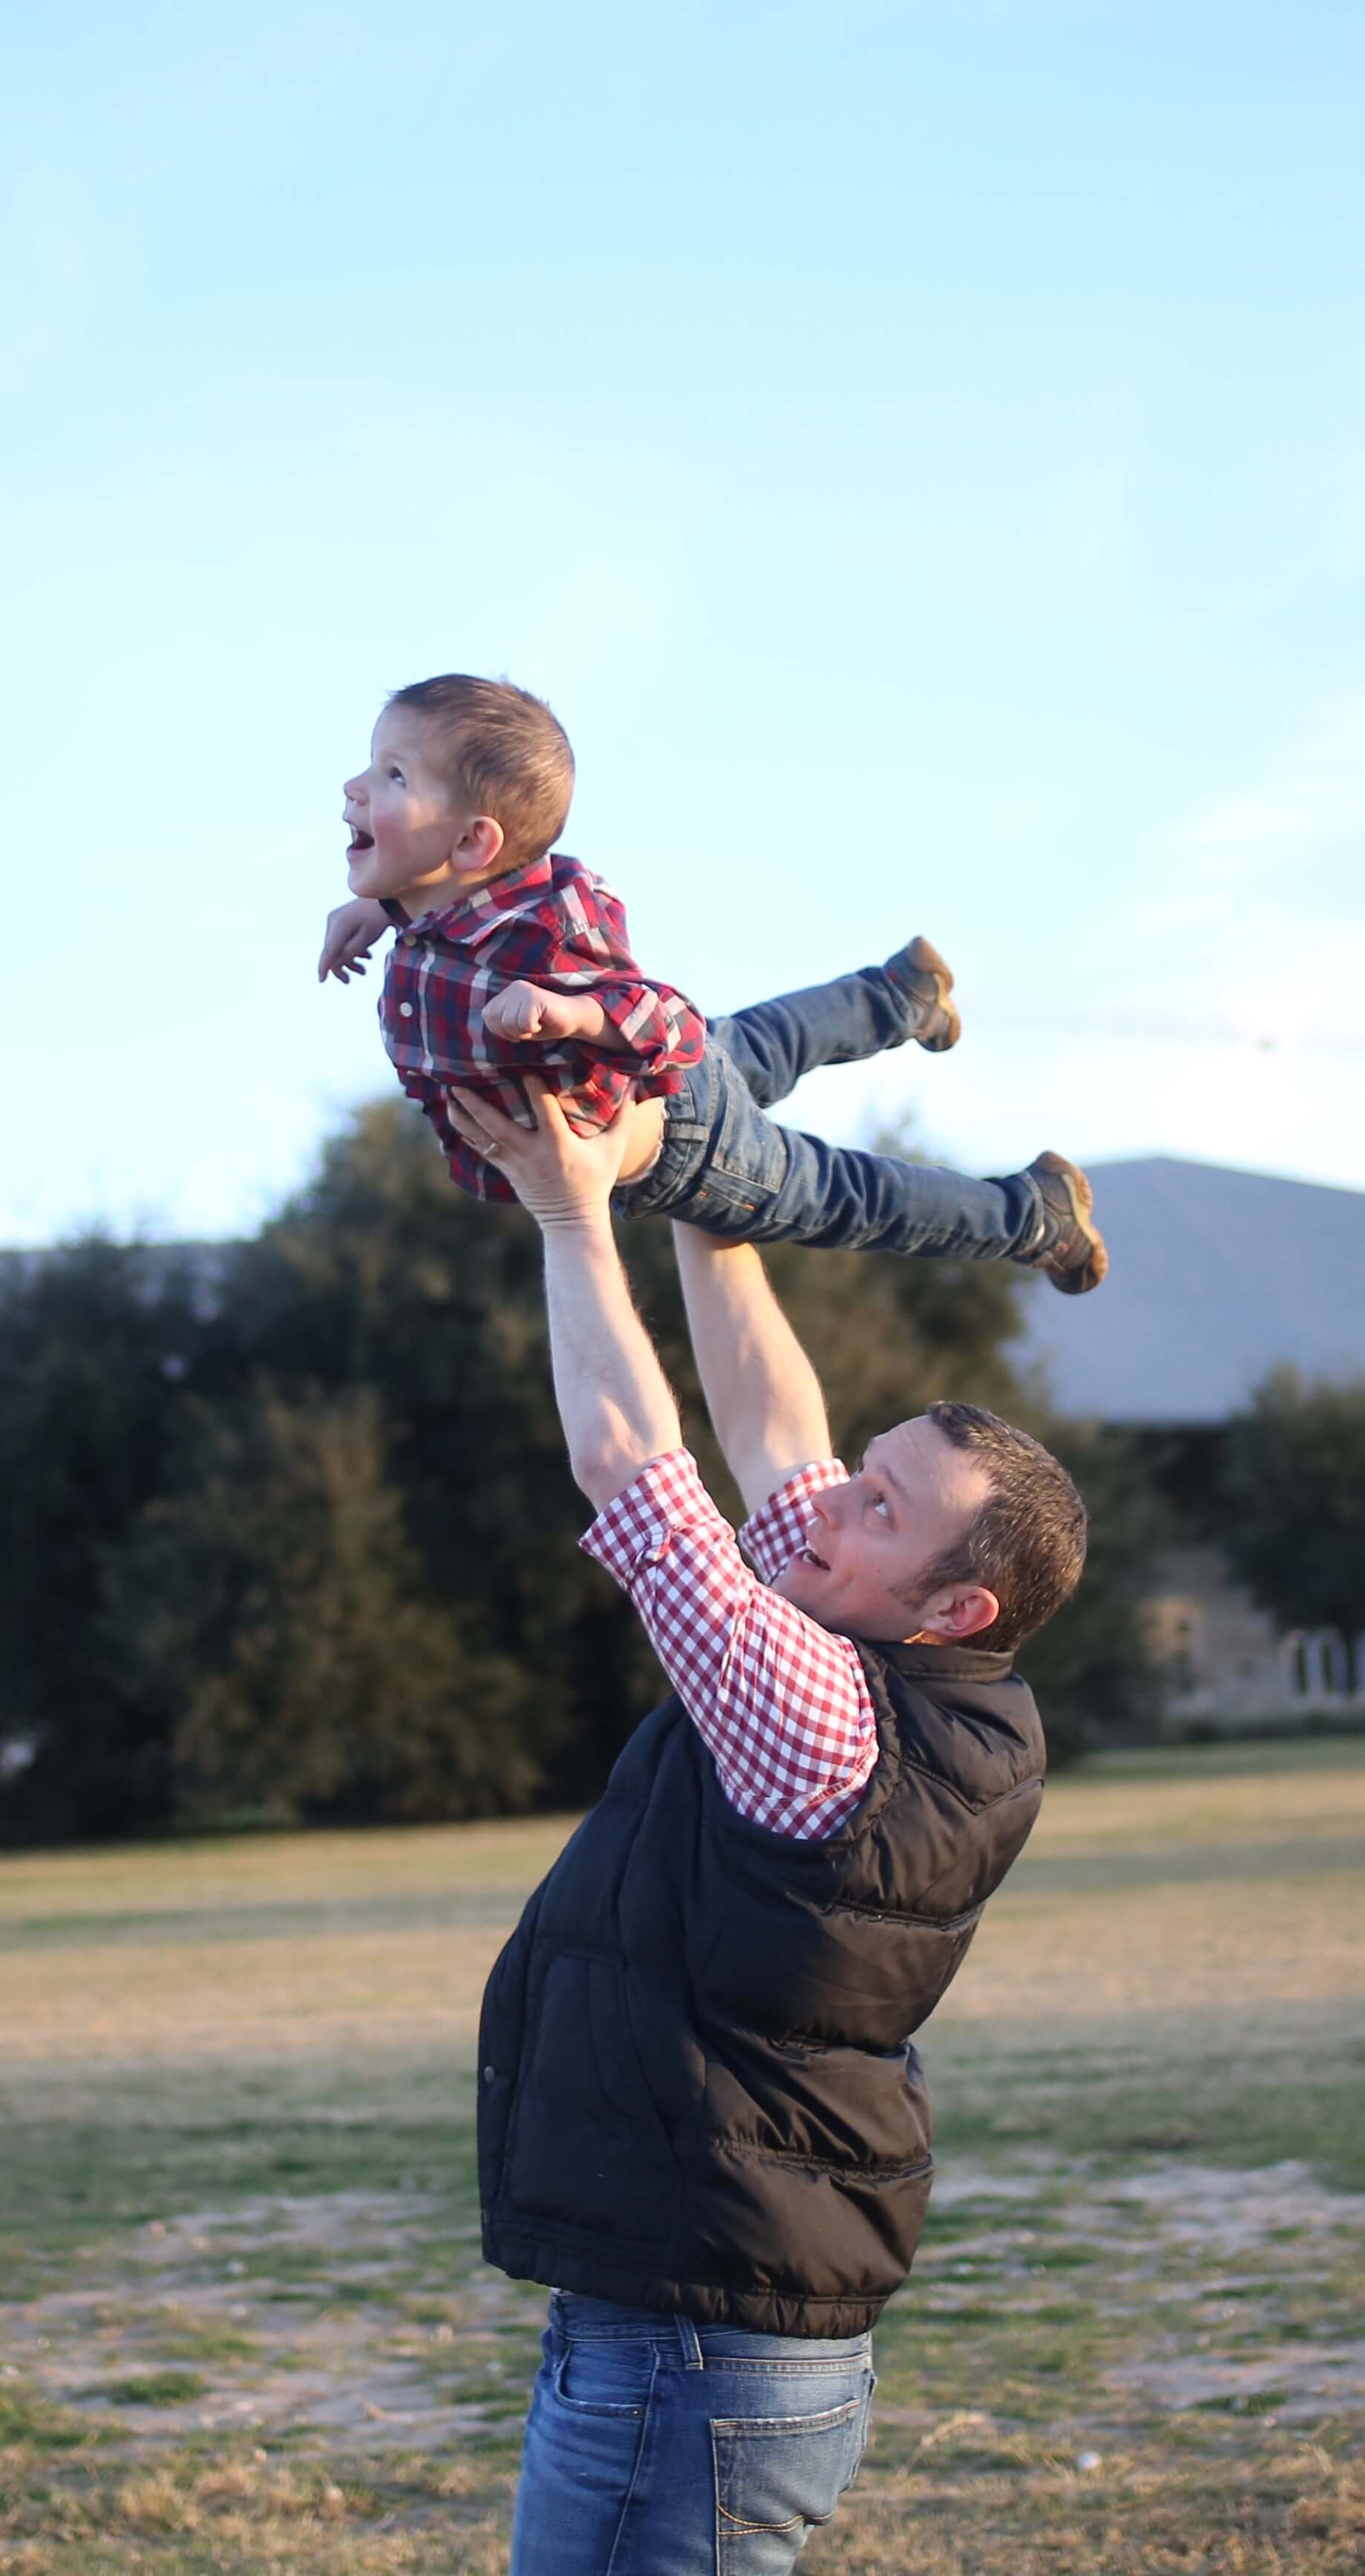
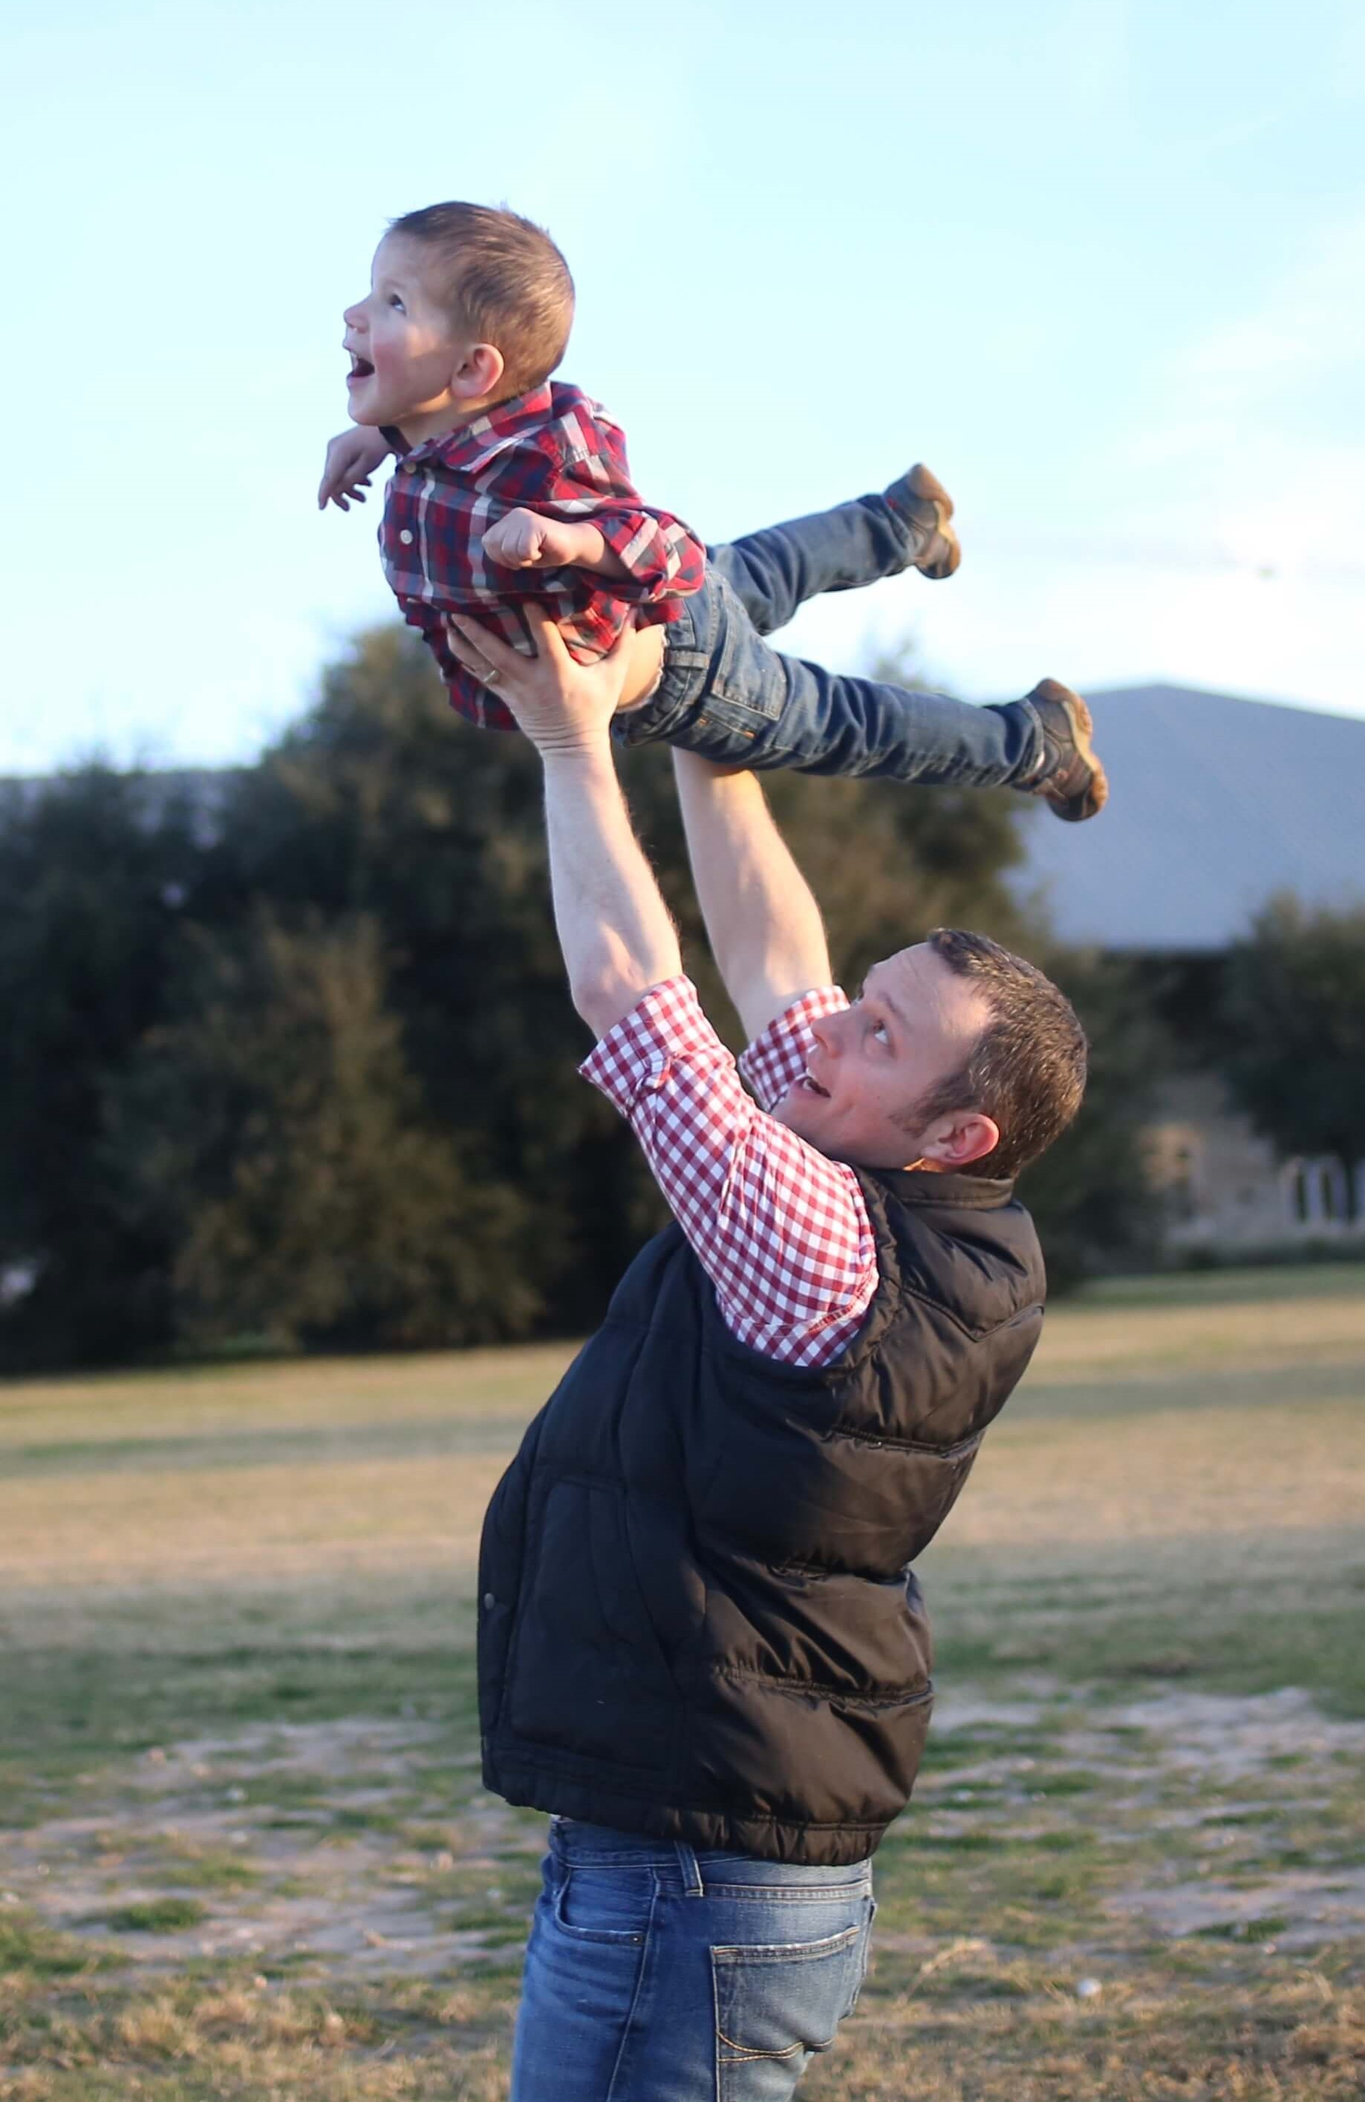
added a11y and fixed nav button

diff --git a/main.css b/main.css
@@ -65,34 +65,21 @@ header ul li a .name span{
 }
 
 /* NAV BUTTONS */
-.prev {
-	font-size: 3rem;
-
-	position: absolute;
-	left: 2%;
-	top: 70%;
-	color: white;
-	z-index: 100;
-}
-.prev >i {
-	cursor: pointer;
-	opacity: 0.4;
-
-	transition: all 0.5s;
-}
 .next {
 	font-size: 3rem;
+    /* position: -webkit-sticky; */
+    position: fixed;
+    /* align-self: flex-start; */
 
-	position: absolute;
-	left: 92%;
-	top: 70%;
-	color: white;
-	z-index: 100;
+	left: 50%;
+	top: 85%;
+	color: black;
+    z-index: 100;
+    
 }
 .next >i {
 	cursor: pointer;
 	opacity: 0.4;
-
 	transition: all 0.5s;
 }
 
@@ -125,7 +112,7 @@ header ul li a .name span{
 /* SLIDE0 "HOME"*/
 .slide0 {
     background: rgb(253, 42, 27);
-    height: 80vh;
+    height: 90vh;
     /* display: none; */
 }
 .about{
@@ -296,7 +283,7 @@ footer .links{
 
 
 
-@media only screen and (max-width:667px){
+@media only screen and (max-width:668px){
     .slide3 img, .slide1 img{
         display: none;
     }
@@ -472,20 +459,23 @@ footer .links{
     /* SLIDE1 */
     .slide1{
         height: 90%;
+        font-size: 5rem;
     }
     .info{
         display: flex;
         flex-direction: row;
-        align-items: center;
     }
     .slide1 h2{
-        width:80%;
+        width:40%;
         margin: auto;
         text-align: left;
         font-weight: bold;
     }
-    .slide1 li{
-        width: 80%;
+    .bio{
+        flex:1;
+    }
+    .bio li{
+        width: 40%;
         margin: auto;
         text-align: left;
         color: white;
@@ -494,11 +484,11 @@ footer .links{
         font-size: 1.5rem;
     }
     .familypic{
-        width:40%;
-        margin:2rem auto;
+        width: 40%;
+        flex:1;
     }
-    .slide1 img{
-        width:50%;
+    .familypic img{
+        height: 50%;
     }
 
 
@@ -526,8 +516,14 @@ footer .links{
     .slide3{
         height: 90%;
     }
+    .info{
+        display: flex;
+        align-items: center;
+        flex-direction: column;
+    }
     .contact{
         display: flex;
+
     } 
     .contactBtns{
         width: 40%;

diff --git a/index.html b/index.html
@@ -11,7 +11,7 @@
     <title>Brandon's WebDev Portfolio</title>
 </head>
 <body>
-    <header>
+    <header role="banner">
         <ul>
             <li class="current menu0"><a href="#"><div class="icon"><i class="fas fa-home"></i><i class="fas fa-home"></i></div><div class="name"><span data-text="HOME">HOME</span></div></a></li>
             <li class="menu1"><a href="#"><div class="icon"><i class="fas fa-info-circle"></i><i class="fas fa-info-circle"></i></div><div class="name"><span data-text="ABOUT">ABOUT</span></div></a></li>
@@ -19,11 +19,10 @@
             <li class="menu3"><a href="#"><div class="icon"><i class="fas fa-envelope"></i><i class="fas fa-envelope"></i></div><div class="name"><span data-text="CONTACT">CONTACT</span></div></a></li>
         </ul>
     </header>
-    <main>
+    <main role="main">
         <div class="slides">
-            <nav>
-                <div class="prev"><i class="fas fa-chevron-circle-left"></i></div>
-                <div class="next"><i class="fas fa-chevron-circle-right"></i></div>
+            <nav role="navigation">
+                <div class="next"><i class="fas fa-chevron-circle-down"></i></div>
             </nav>
 
             <div class="slide slide0">
@@ -60,7 +59,7 @@
                     </div>
                     <div class="familypic">
                             <img src="kaydon.jpg" alt="picture of Brandon playfully throuwing his son into the air">
-                        </div>
+                    </div>
                 </div>        
                 
                             
@@ -106,7 +105,7 @@
     <script src="https://ajax.googleapis.com/ajax/libs/jquery/3.3.1/jquery.min.js"></script>
     <script src="index.js"></script>
 </body>
-<footer>
+<footer role="contentinfo">
     <div class="links">
         <a href="mailto:bgthemanofsteel@gmail.com"><i class="fa fa-envelope"></i></a>
         <a href="https://github.com/bgthemanofsteel" target="blank"><i class="fab fa-github-square"></i></a>
